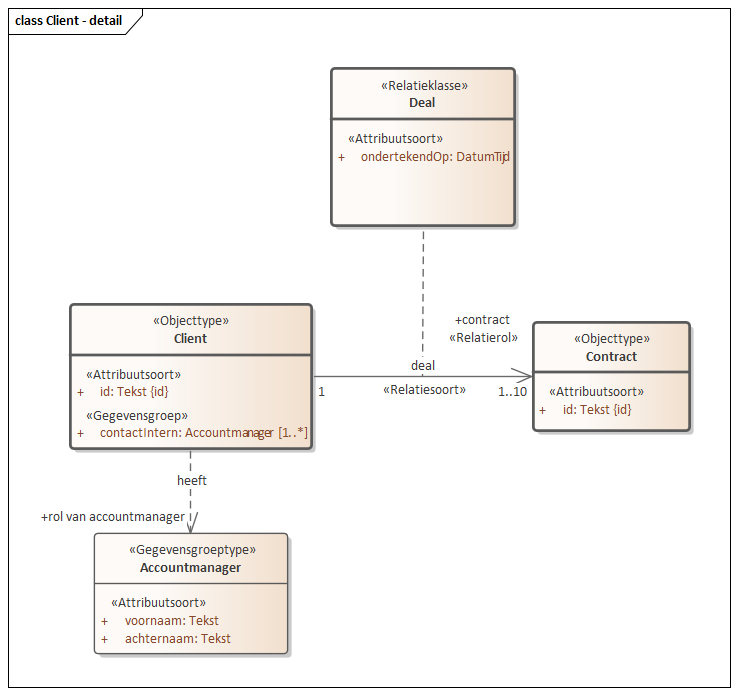
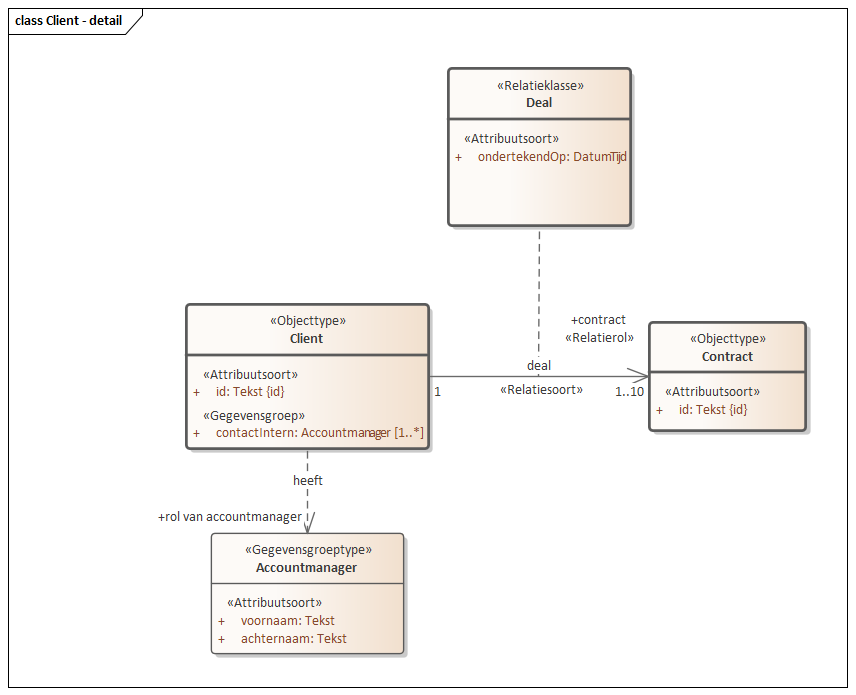
Conceptualmodel-SampleBaseSAMPLE-1.0.0-2-20130318-20220224-135151

diff --git a/data/SAMPLE-cat.msword.html b/data/SAMPLE-cat.msword.html
@@ -14,8 +14,8 @@
    </head>
    <body>
       <p>Conceptual model/SampleBase (SAMPLE)/20130318</p>
-      <p>Imvertor: 1.66.0</p>
-      <p>Model release: Conceptualmodel-SampleBaseSAMPLE-1.0.0-2-20130318-20220208-121117</p>
+      <p>Imvertor: 1.65.4</p>
+      <p>Model release: Conceptualmodel-SampleBaseSAMPLE-1.0.0-2-20130318-20220224-135151</p>
       <hr>
       <section>
          <h1>Artikel 1 Definitie van registratieobject, entiteiten en attributen</h1>
@@ -1252,7 +1252,7 @@
                      </section>
                </section><a class="anchor" id="graph_EAID_DF955A82_3E49_4c9d_9C0C_74738600FE1B"></a><a class="anchor" id="global_class_Model_Client"></a><section id="global_class_Model_Client">
                   <h3>   Client</h3>
-                  <div class="imageinfo "><img src="Images/EAID_C73F9C08_FA15_4f5d_B14A_48C35207964C.png" usemap="#imagemap-EAID_C73F9C08_FA15_4f5d_B14A_48C35207964C" alt="Diagram "><map name="imagemap-EAID_C73F9C08_FA15_4f5d_B14A_48C35207964C"><area shape="rect" alt="Accountmanager" coords="94,533,288,654" href="#graph_EAID_29D6B892_B943_494c_94C7_A13DB031E998"><area shape="rect" alt="Contract" coords="533,322,690,431" href="#graph_EAID_77987690_1141_457d_A33B_E1C7AA1EA812"><area shape="rect" alt="Client" coords="70,304,312,449" href="#graph_EAID_DF955A82_3E49_4c9d_9C0C_74738600FE1B"></map><p><b></b></p>
+                  <div class="imageinfo "><img src="Images/EAID_C73F9C08_FA15_4f5d_B14A_48C35207964C.png" usemap="#imagemap-EAID_C73F9C08_FA15_4f5d_B14A_48C35207964C" alt="Diagram "><map name="imagemap-EAID_C73F9C08_FA15_4f5d_B14A_48C35207964C"><area shape="rect" alt="Accountmanager" coords="211,533,404,654" href="#graph_EAID_29D6B892_B943_494c_94C7_A13DB031E998"><area shape="rect" alt="Contract" coords="649,322,806,431" href="#graph_EAID_77987690_1141_457d_A33B_E1C7AA1EA812"><area shape="rect" alt="Client" coords="186,304,429,449" href="#graph_EAID_DF955A82_3E49_4c9d_9C0C_74738600FE1B"></map><p><b></b></p>
                   </div>
                   <table style="width: 100%;">
                      <colgroup style="width: 30%;"></colgroup>
@@ -1310,7 +1310,7 @@
                            </tr>
                         </tbody>
                      </table>
-                     </section><a class="anchor" id="detail_d21625e4763"></a><section id="detail_d21625e4763">
+                     </section><a class="anchor" id="detail_d21563e4763"></a><section id="detail_d21563e4763">
                      <h4>  contactIntern</h4>
                      <table style="width: 100%;">
                         <colgroup style="width: 30%;"></colgroup>

diff --git a/data/SAMPLE-cat.respec.html b/data/SAMPLE-cat.respec.html
@@ -1228,7 +1228,7 @@
             </section>
       </section><a class="anchor" id="graph_EAID_DF955A82_3E49_4c9d_9C0C_74738600FE1B"></a><a class="anchor" id="global_class_Model_Client"></a><section id="global_class_Model_Client">
          <h3>   Client</h3>
-         <div class="imageinfo "><img src="data/Images/EAID_C73F9C08_FA15_4f5d_B14A_48C35207964C.png" usemap="#imagemap-EAID_C73F9C08_FA15_4f5d_B14A_48C35207964C" alt="Diagram "><map name="imagemap-EAID_C73F9C08_FA15_4f5d_B14A_48C35207964C"><area shape="rect" alt="Accountmanager" coords="94,533,288,654" href="#graph_EAID_29D6B892_B943_494c_94C7_A13DB031E998"><area shape="rect" alt="Contract" coords="533,322,690,431" href="#graph_EAID_77987690_1141_457d_A33B_E1C7AA1EA812"><area shape="rect" alt="Client" coords="70,304,312,449" href="#graph_EAID_DF955A82_3E49_4c9d_9C0C_74738600FE1B"></map><p><b></b></p>
+         <div class="imageinfo "><img src="data/Images/EAID_C73F9C08_FA15_4f5d_B14A_48C35207964C.png" usemap="#imagemap-EAID_C73F9C08_FA15_4f5d_B14A_48C35207964C" alt="Diagram "><map name="imagemap-EAID_C73F9C08_FA15_4f5d_B14A_48C35207964C"><area shape="rect" alt="Accountmanager" coords="211,533,404,654" href="#graph_EAID_29D6B892_B943_494c_94C7_A13DB031E998"><area shape="rect" alt="Contract" coords="649,322,806,431" href="#graph_EAID_77987690_1141_457d_A33B_E1C7AA1EA812"><area shape="rect" alt="Client" coords="186,304,429,449" href="#graph_EAID_DF955A82_3E49_4c9d_9C0C_74738600FE1B"></map><p><b></b></p>
          </div>
          <table style="width: 100%;">
             <colgroup style="width: 30%;"></colgroup>
@@ -1286,7 +1286,7 @@
                   </tr>
                </tbody>
             </table>
-            </section><a class="anchor" id="detail_d21625e4763"></a><section id="detail_d21625e4763">
+            </section><a class="anchor" id="detail_d21563e4763"></a><section id="detail_d21563e4763">
             <h4>  contactIntern</h4>
             <table style="width: 100%;">
                <colgroup style="width: 30%;"></colgroup>
